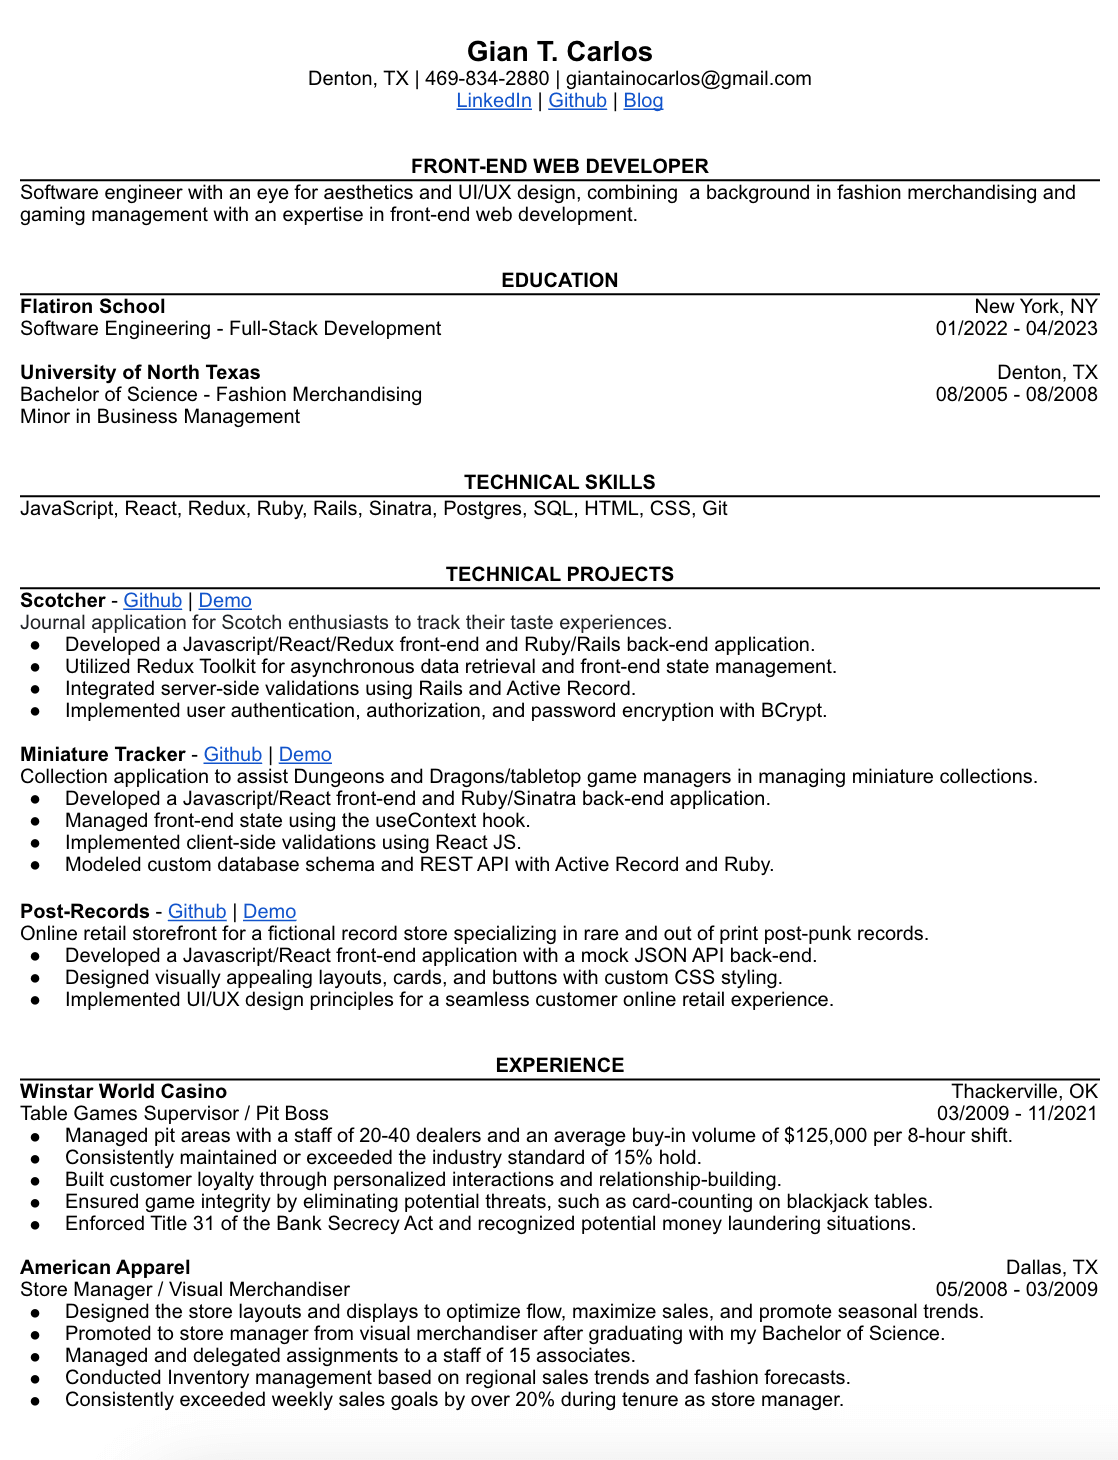
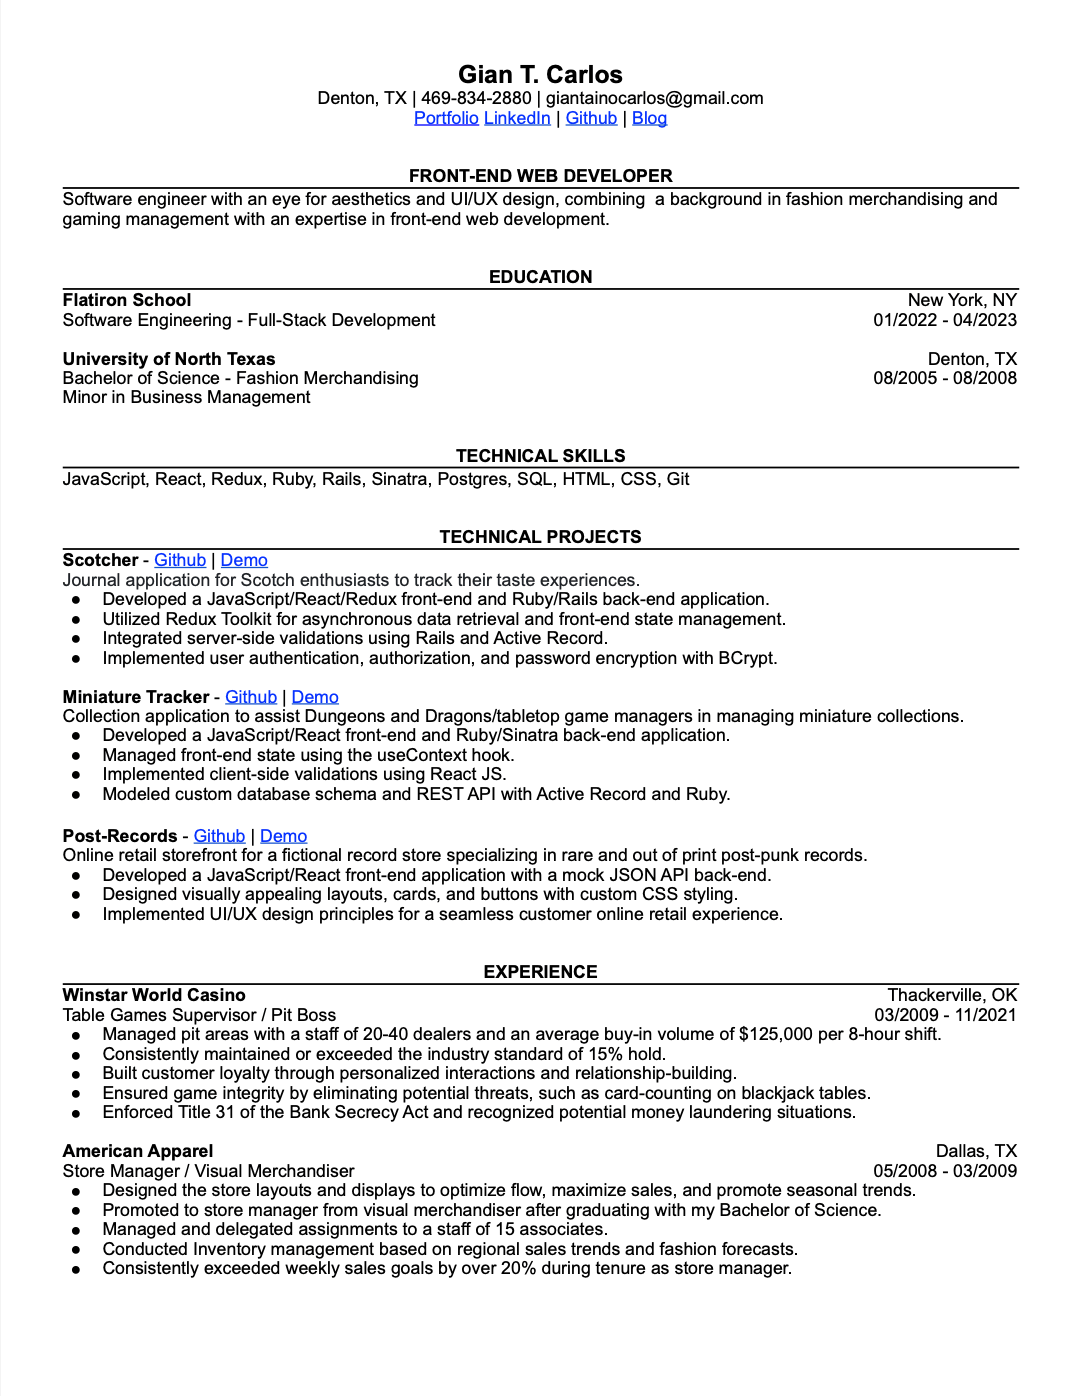
edit projects text, edit resume

Changed region(s): [[0.0, 0.308, 0.9778, 0.9857], [0.0, 0.0308, 0.9778, 0.308]]

diff --git a/src/Components/Projects.js b/src/Components/Projects.js
@@ -10,7 +10,7 @@ function Projects() {
             </div>
             <div className="card-title">Post-Records</div>
             <div className="card-details">Online retail storefront for a fictional record store specializing in rare and out of print post-punk records.</div>
-            <div className="card-details">● Developed a Javascript/React front-end application with a mock JSON API back-end.</div>
+            <div className="card-details">● Developed a JavaScript/React front-end application with a mock JSON API back-end.</div>
             <div className="card-details">● Designed visually appealing layouts, cards, and buttons with custom CSS styling.</div>
             <div className="card-details">● Implemented UI/UX design principles for a seamless customer online retail experience.</div>
             <Link to={'https://github.com/giantcarlos/post-records-storefront'} target="_blank">
@@ -26,7 +26,7 @@ function Projects() {
             </div>
             <div className="card-title">Miniature Tracker</div>
             <div className="card-details">Collection application to assist Dungeons and Dragons/tabletop game managers in managing miniature collections.</div>
-            <div className="card-details">● Developed a Javascript/React front-end and Ruby/Sinatra back-end application.</div>
+            <div className="card-details">● Developed a JavaScript/React front-end and Ruby/Sinatra back-end application.</div>
             <div className="card-details">● Managed front-end state using the useContext hook.</div>
             <div className="card-details">● Implemented client-side validations using React JS.</div>
             <div className="card-details">● Modeled custom database schema and REST API with Active Record and Ruby.</div>
@@ -43,7 +43,7 @@ function Projects() {
             </div>
             <div className="card-title">Scotcher</div>
             <div className="card-details">Journal application for Scotch enthusiasts to track their taste experiences.</div>
-            <div className="card-details">● Developed a Javascript/React/Redux front-end and Ruby/Rails back-end application.</div>
+            <div className="card-details">● Developed a JavaScript/React/Redux front-end and Ruby/Rails back-end application.</div>
             <div className="card-details">● Utilized Redux Toolkit for asynchronous data retrieval and front-end state management.</div>
             <div className="card-details">● Integrated server-side validations using Rails and Active Record.</div>
             <div className="card-details">● Implemented user authentication, authorization, and password encryption with BCrypt.</div>

diff --git a/src/App.css b/src/App.css
@@ -257,7 +257,7 @@ p {
     font-size: 1.2rem;
   }
   .button {
-    width: 35%;
+    width: 45%;
     padding: .6rem 2rem;
   }
   h1 {
